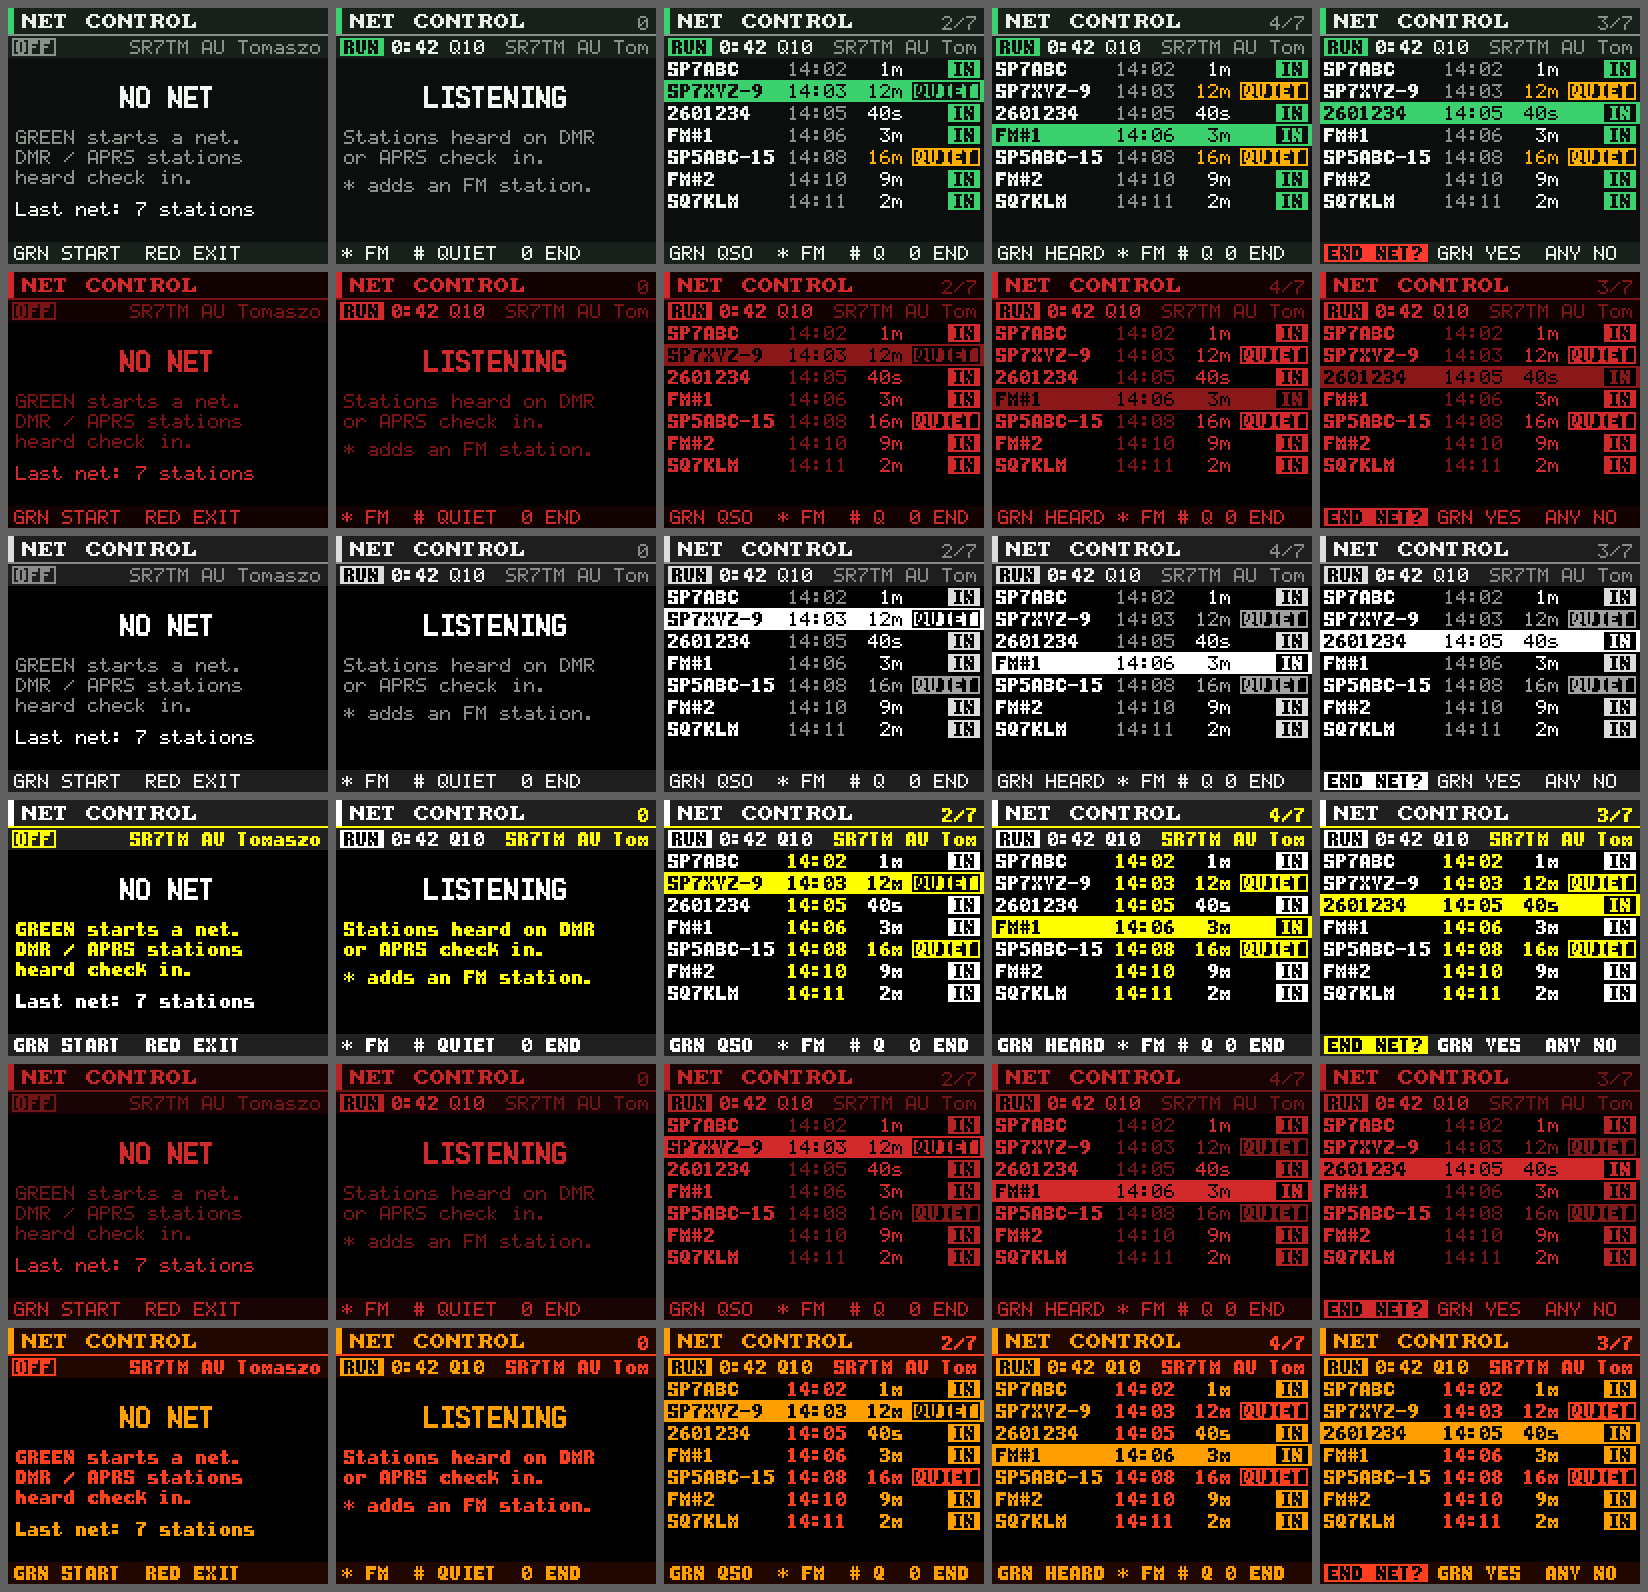
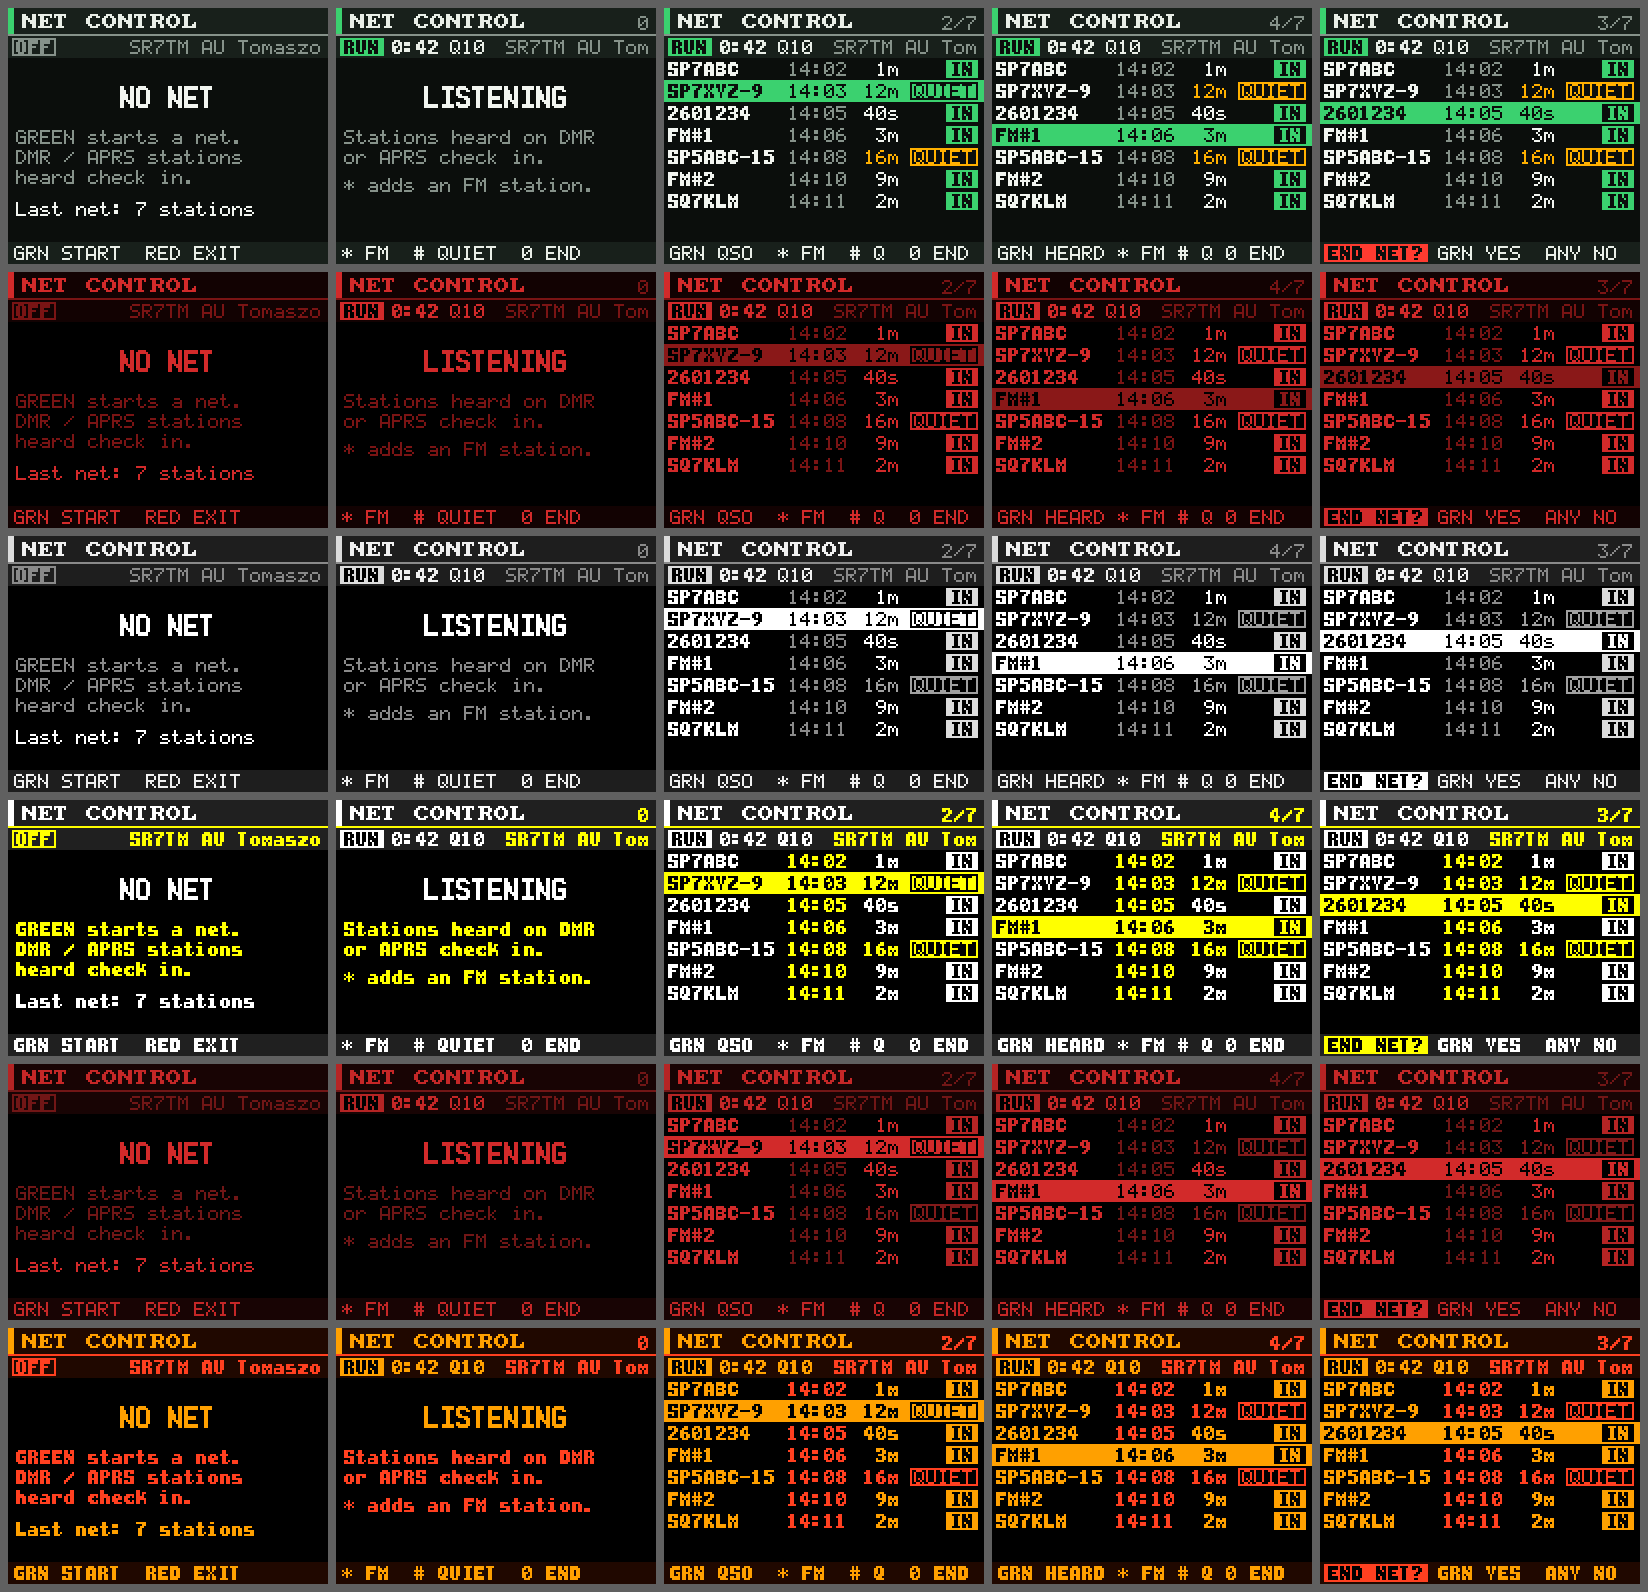
Docs: net control chip layout, quickkey actions for menus >= 32, APRS objects

diff --git a/docs/screens/render_tools.py b/docs/screens/render_tools.py
@@ -423,14 +423,15 @@ NET = [('SP7ABC', '14:02', '1m', False), ('SP7XYZ-9', '14:03', '12m', True), ('2
 
 
 def net_chip(s, T, y, quiet, on):
+    # IN: solid block, bold text; QUIET: frame, regular text (3 px from the right edge)
     word = 'QUIET' if quiet else 'IN'
     w = len(word) * 6 + 4
-    x = W - 2 - w
-    if on and not quiet:
-        s.fill(x, y - 1, w, 9, T['bg']); s.text(x + 2, y, word, '1b', T['sel'])
-    elif quiet:
+    x = W - 3 - w
+    if quiet:
         c = T['bg'] if on else T['amber']
-        s.rect(x, y - 1, w, 9, c); s.text(x + 2, y, word, '1b', c)
+        s.rect(x, y - 1, w, 9, c); s.text(x + 2, y, word, 1, c)
+    elif on:
+        s.fill(x, y - 1, w, 9, T['bg']); s.text(x + 2, y, word, '1b', T['sel'])
     else:
         s.fill(x, y - 1, w, 9, T['green']); s.text(x + 2, y, word, '1b', T['bg'])
 
@@ -470,7 +471,7 @@ def net(T, state='run', sel=1):
             s.fill(0, y - 2, W, 11, T['sel'])
         txt(s, T, 2, y, call, '1b', T['bg'] if on else T['fg'])
         txt(s, T, 62, y, tin, 1, T['bg'] if on else T['deco'])
-        txt(s, T, 120, y, age, 1, T['bg'] if on else (T['amber'] if quiet else T['fg']), True)
+        txt(s, T, 118, y, age, 1, T['bg'] if on else (T['amber'] if quiet else T['fg']), True)
         net_chip(s, T, y, quiet, on)
     if state == 'end':
         confirm(s, T, 'END NET?')

diff --git a/docs/screens/render_field.py b/docs/screens/render_field.py
@@ -127,7 +127,7 @@ def net():
         if i == 1:
             s.fill(0, ry - 1, 160, 10, P['line'])
         s.text(2, ry, f'{call:<9} {t} {age:>3}', 1, P['fg'])
-        s.text(158 - (30 if quiet else 12), ry, 'QUIET' if quiet else 'IN', '1b', P['tx'] if quiet else P['rx'])
+        s.text(157 - (30 if quiet else 12), ry, 'QUIET' if quiet else 'IN', '1b', P['tx'] if quiet else P['rx'])
     keybar(s, 'GRN QSO  * FM  # Q  0 END')
     return s
 

diff --git a/CHANGELOG.md b/CHANGELOG.md
@@ -9,6 +9,8 @@ marked *(untested)* build and pass host tests but still need on-air checking.
 
 * **Net control + QSO log** *(untested)*: new main menu tile *Net control*. `GREEN` starts a net; every station heard on DMR (callsign, else the DMR ID) or APRS checks in by itself. Rows: station, check-in time (UTC), time since last heard, `IN` (solid chip) / `QUIET` (outlined: not heard for the quiet limit; logged once with a warning card and a beep, re-armed when heard again). `*` adds an FM check-in `FM#n`, `GREEN` on it marks it heard now; `GREEN` on another row logs a QSO (report 59); `#` quiet limit 10 / 15 / 30 / 5 min; `0` then `GREEN` ends the net; `RED` leaves, the net keeps running in the background. 18 stations in RAM.
   * **Last heard**: `*` logs a QSO with the selected station (report 59), *QSO logged* card; EMCOM key bar (`GRN CALL  * QSO  RED EXIT`, one row less).
+  * **Quickkeys**: Position, Coverage, Radio check and Net control now work as quickkeys (their menu numbers did not fit the quickkey field and opened another screen); they are stored as quickkey actions, also when set with `SK2` + digit on the screen or its tile.
+  * **APRS objects / items** are no longer checked in to a net (only stations heard themselves).
   * **Event log**: two new record types, `QSO` (`SP7ABC 59`, `2601234 59`, `FM#3 59`) and `NET` (`START <channel>`, `IN <station>`, `QUIET <station>`, `END <n>`), also in `opengd77_event_log.py`.
 * **UI refresh, stage 2 (EMCOM styles)** *(untested)*: the field tool screens get the title bar with a counter, a status strip, state chips (a word and a shape as well as a colour) and a key bar with the real keys; classic style unchanged, keys unchanged.
   * **PACE**: the slot the radio is on in the strip (`ON P`, `OFF PLAN`, `VFO`), rows with name, frequency, role and `ON` / `EMPTY` / `DELETED`.

diff --git a/PLANS/rt3s_ideas_backlog.md b/PLANS/rt3s_ideas_backlog.md
@@ -198,7 +198,13 @@ per second), `user_interface/menuNetControl.c` (screen, EMCOM + classic), mock-u
   10 / 15 / 30 / 5 min (RAM only: no spare settings bit in bank 0), `0` + `GREEN` end, `RED` leave.
   Last heard: `*` = QSO 59.
 * The main menu tile has a fixed English name (`menuItemName()`, `MENU_STRING_NET_CONTROL`), no
-  language string; it is not offered as a quickkey (menu IDs above 31 do not fit the 5 bit field).
+  language string.
+* **Quickkeys:** menu IDs >= 32 (Position, Coverage, Radio check, Net control) do not fit the 5 bit
+  `QUICKKEY_MENUID`; they are `QUICKKEY_ACTION_MENU_*` actions now (`saveQuickkeyMenuIndex()` stores
+  them so too), opened from the channel / VFO screen only. `QUICKKEY_MENUVALUE_CHECKED()` refuses an
+  ID >= 32 in the choice table at compile time. Old slots that wrapped to menus 0..2 still open
+  those (valid) menus.
+* APRS objects / items (`aprsRxStation_t.isObject`) are not checked in.
 
 **Ideas:** other reports than 59 (`OK` / `RPT` / `NIL` codes picked on the radio), the roster
 saved in flash across a power cycle, a net summary export, FM check-in by DTMF ANI / CTCSS.

diff --git a/README.md b/README.md
@@ -308,9 +308,9 @@ cancels). On a computer:
 
 ### Field tools — *main menu → PACE / Position / Coverage / Radio check / Net control*
 
-Five screens for working in the field. PACE, Position, Coverage and Radio
-check are also available as quickkeys; their data lives in the last 64 KB of
-the SPI flash and survives a power cycle.
+Five screens for working in the field, also available as quickkeys. The
+PACE, Coverage and Radio check data lives in the last 64 KB of the SPI flash
+and survives a power cycle.
 
 | ![PACE plan](docs/screens/field_pace.png) | ![Position](docs/screens/field_position.png) |
 |---|---|
